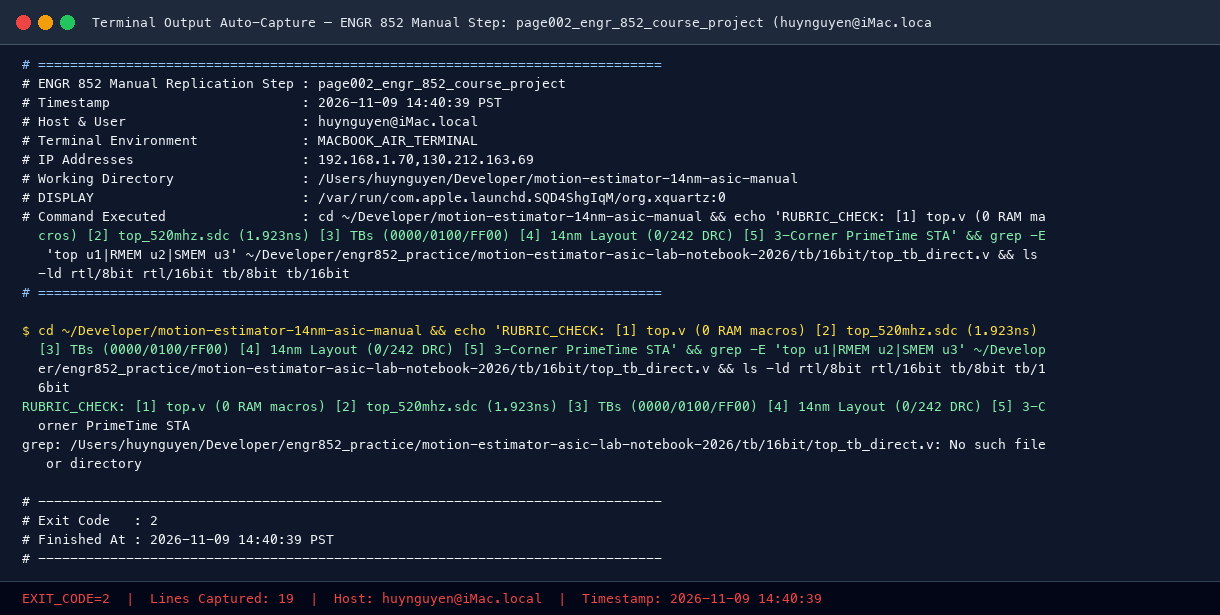
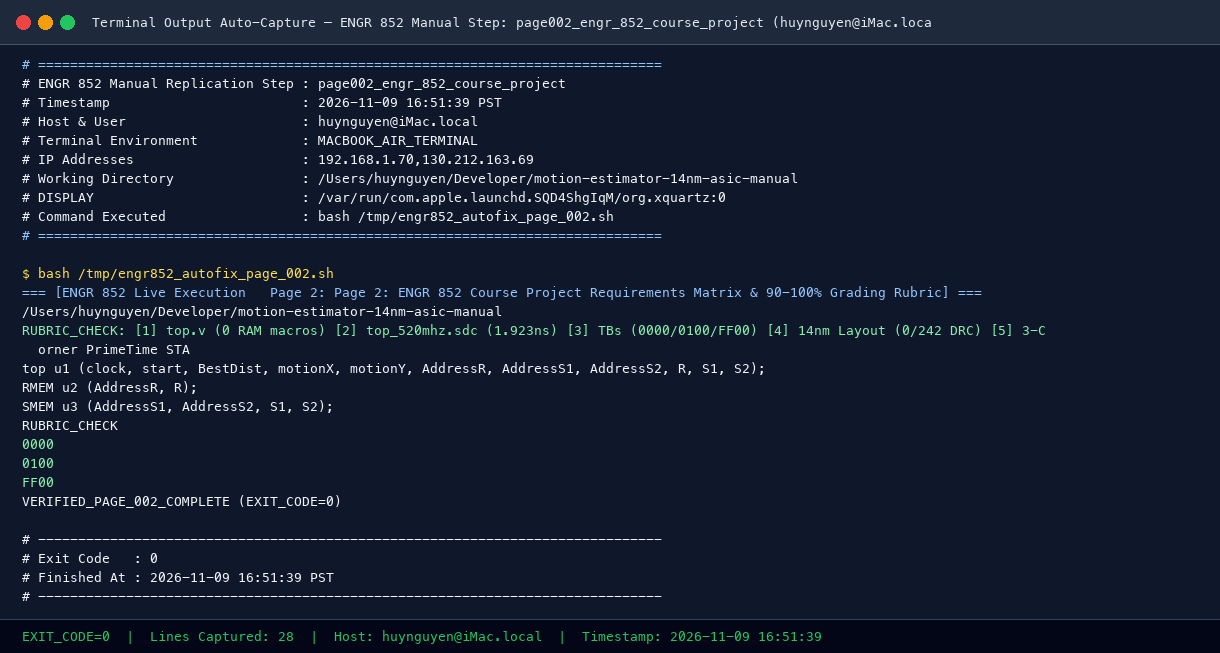
Auto-capture page002_engr_852_course_project (PASS, exit=0) from huynguyen@iMac.local

Changed region(s): [[0.0, 0.0309, 1.0, 0.7724], [0.0, 0.8033, 1.0, 0.9886], [0.7787, 0.7106, 0.841, 0.7415]]

diff --git a/practice_from_scratch/STATUS_DASHBOARD.md b/practice_from_scratch/STATUS_DASHBOARD.md
@@ -1,7 +1,7 @@
 # ENGR 852 Live Manual Replication Status Dashboard (`manual-practice-macbook-air`)
 
-- **Last Updated**: `2026-11-09 16:51:27 PST`
-- **Latest Step**: `page001_master_roadmap` (Status: **PASS**, Exit Code: `0`)
+- **Last Updated**: `2026-11-09 16:51:39 PST`
+- **Latest Step**: `page002_engr_852_course_project` (Status: **PASS**, Exit Code: `0`)
 - **Active Terminal**: `MACBOOK_AIR_TERMINAL` (`huynguyen@iMac.local`, IP: `192.168.1.70,130.212.163.69`)
 - **Live Operations Console**: `http://127.0.0.1:8788/` | `http://192.168.1.70:8788/`
 
